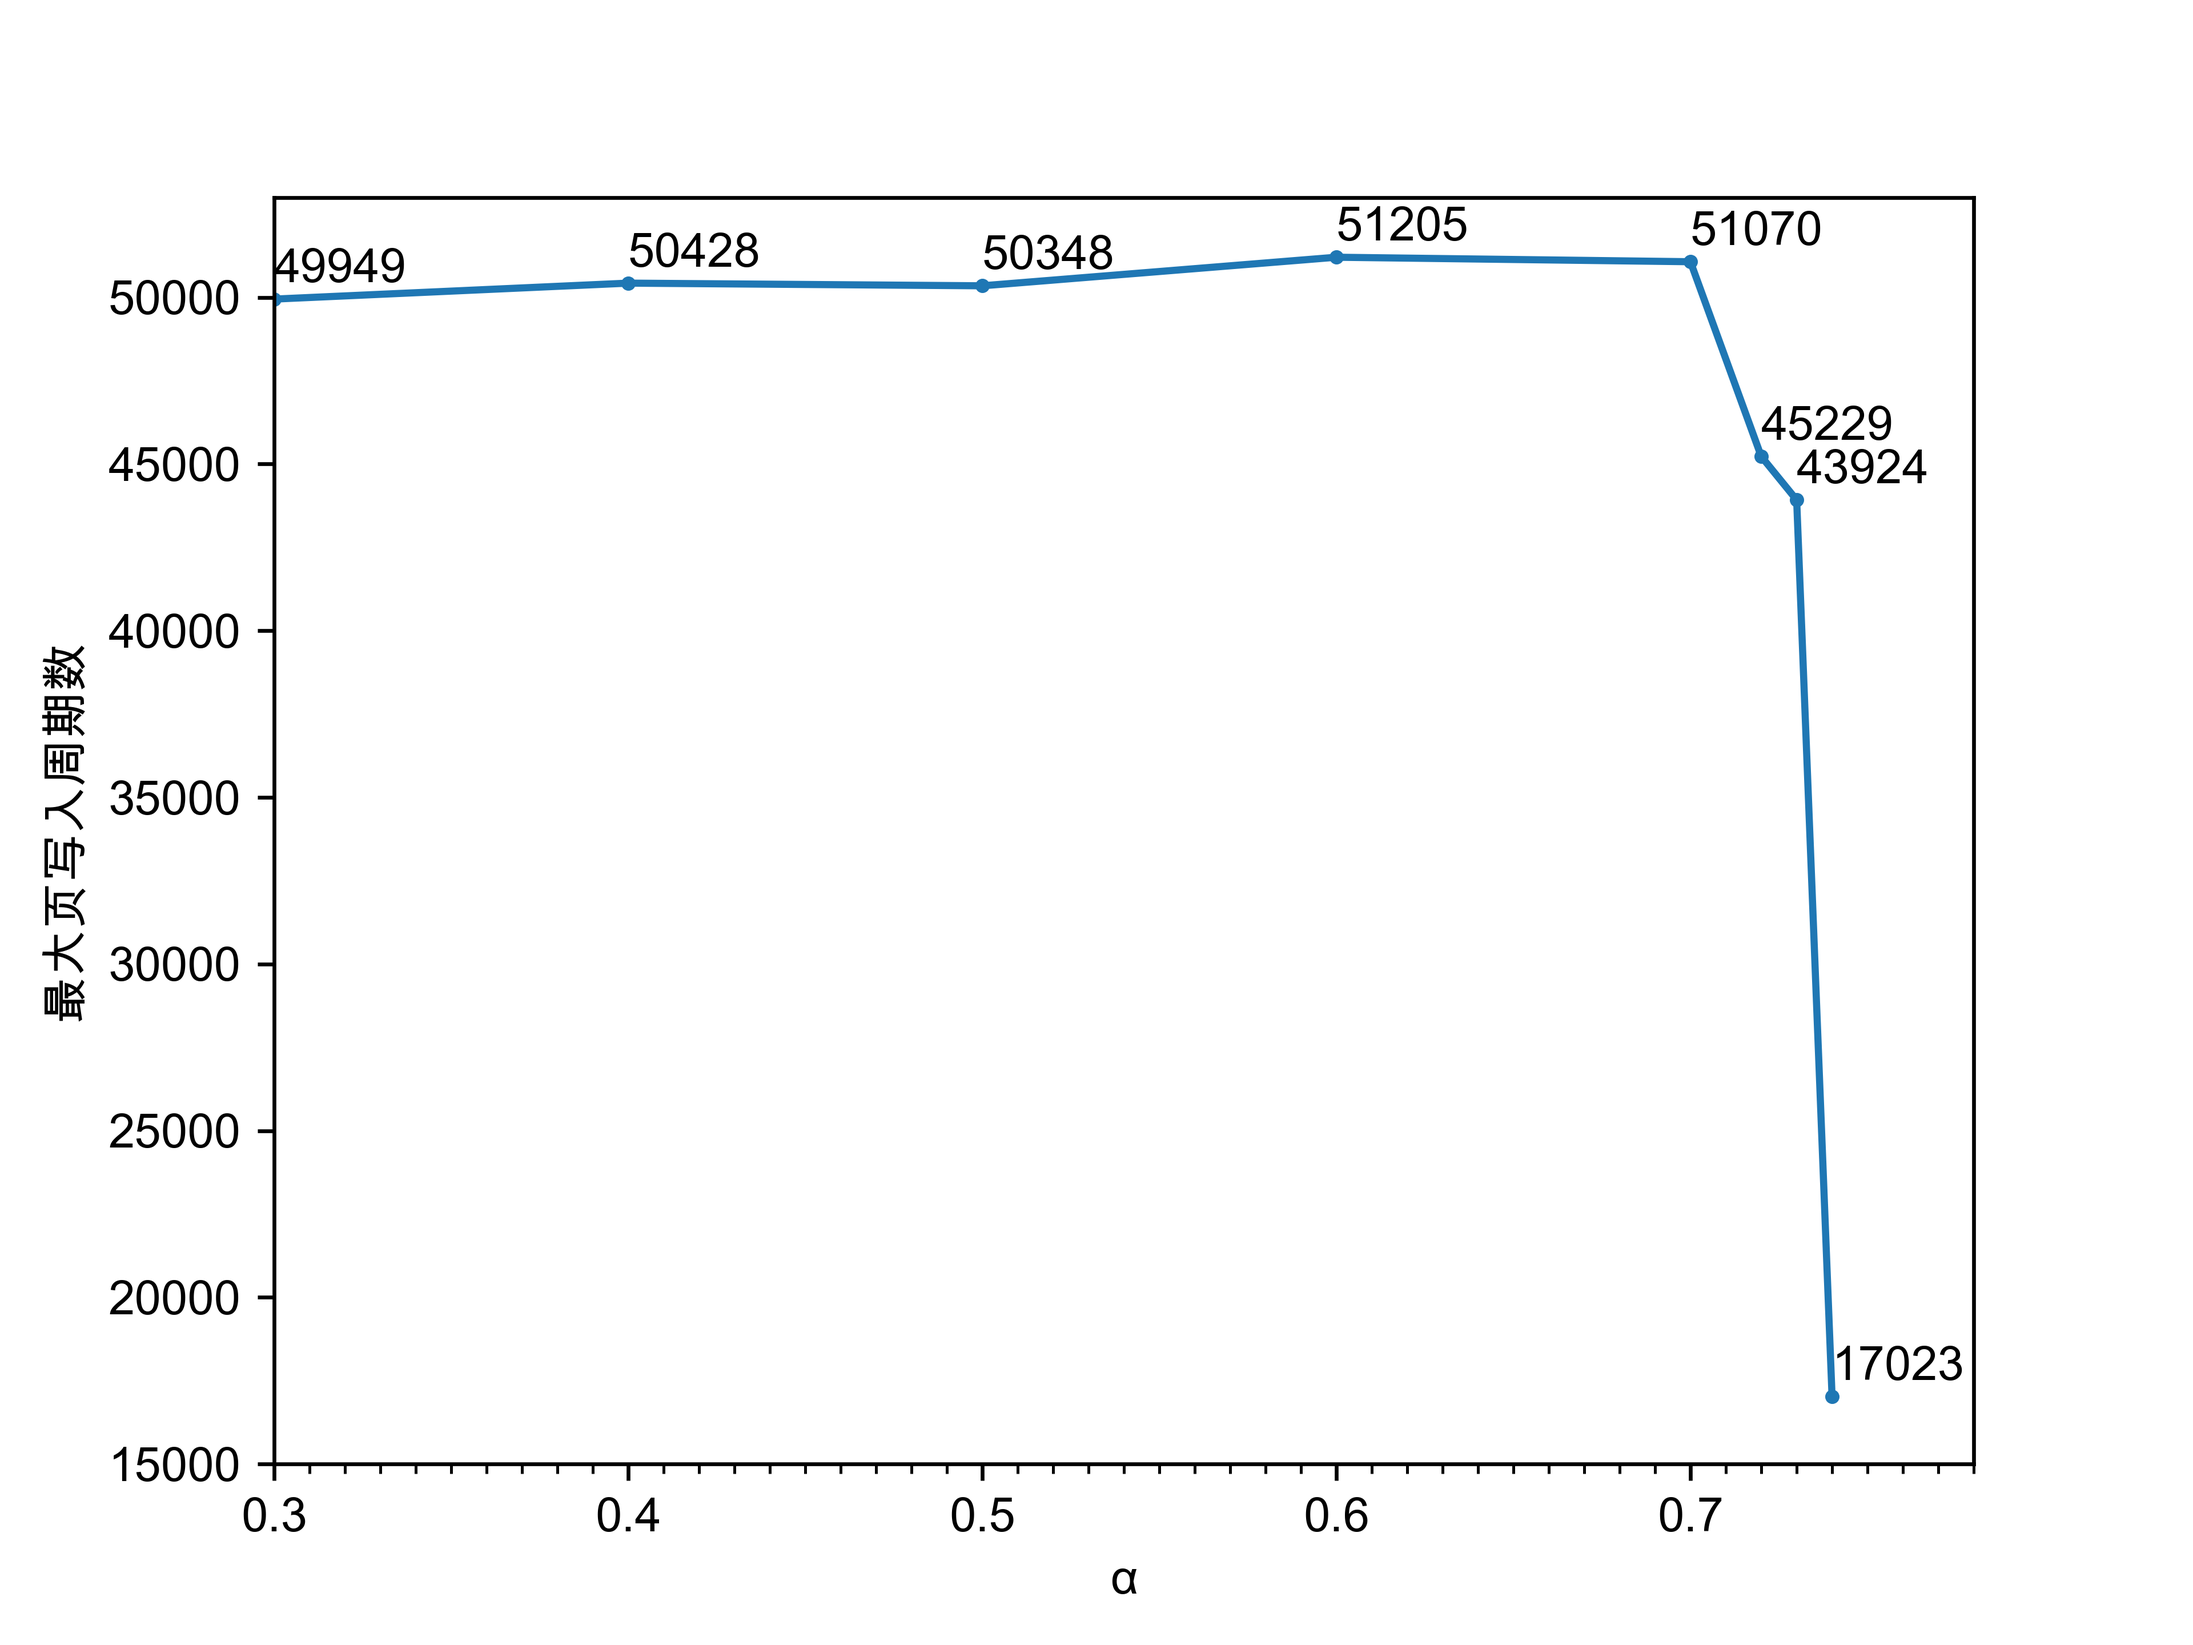
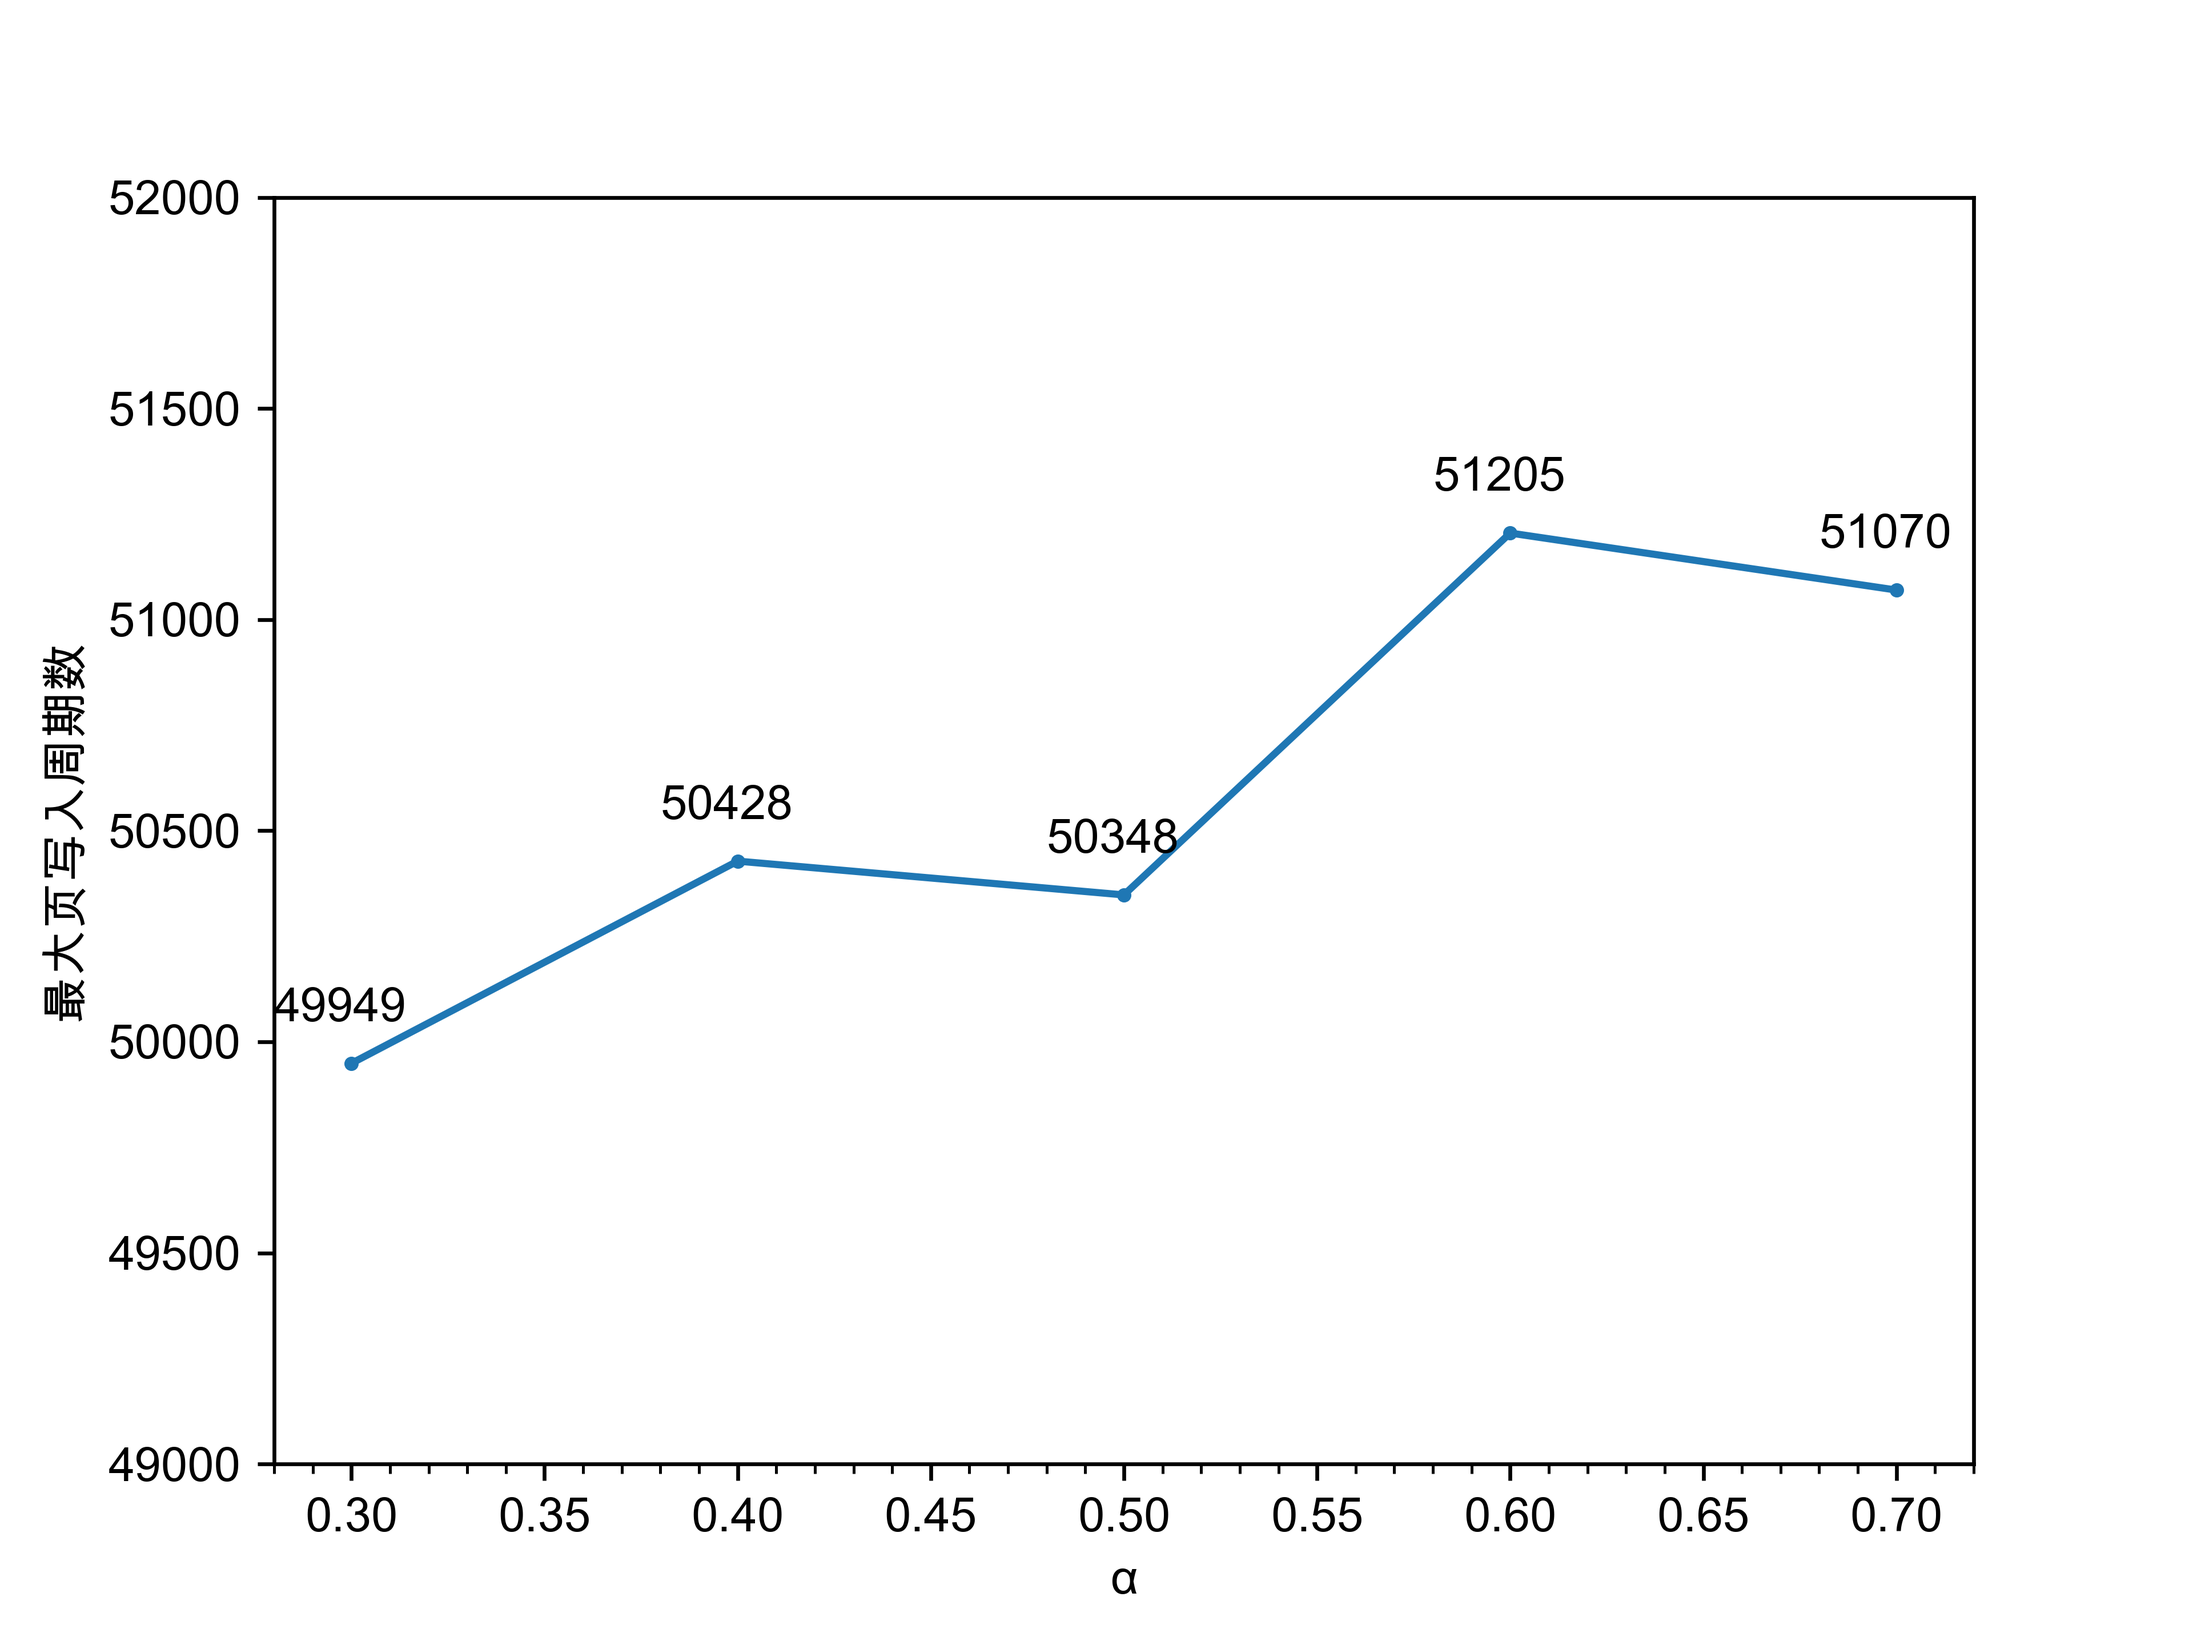
a=0.73可以 0.74不行

diff --git a/matplot/makefigure.py b/matplot/makefigure.py
@@ -225,12 +225,12 @@ def drawPlotByStandardDeviation2(cycleData0, StandardDeviationData0, cycleData1,
                   '-', label='α = 0.60', markersize=marksize)
     l3 = plt.plot(cycleData4, StandardDeviationData4,
                   '-', label='α = 0.70', markersize=marksize)
-    l3 = plt.plot(cycleData5, StandardDeviationData5,
-                  '-', label='α = 0.72', markersize=marksize)
-    l3 = plt.plot(cycleData6, StandardDeviationData6,
-                  '-', label='α = 0.73', markersize=marksize)
-    l3 = plt.plot(cycleData7, StandardDeviationData7,
-                  '-', label='α = 0.74', markersize=marksize)
+#     l3 = plt.plot(cycleData5, StandardDeviationData5,
+#                   '-', label='α = 0.72', markersize=marksize)
+#     l3 = plt.plot(cycleData6, StandardDeviationData6,
+#                   '-', label='α = 0.73', markersize=marksize)
+#     l3 = plt.plot(cycleData7, StandardDeviationData7,
+#                   '-', label='α = 0.74', markersize=marksize)
     plt.xlabel('页写入操作请求数')
     plt.ylabel('标准差')
     plt.legend()
@@ -320,12 +320,12 @@ def drawPlotByTH(cycleData0, th0, cycleData1, th1, cycleData2, th2,
              '-', label='α = 0.60', markersize=marksize)
     plt.plot(cycleData4, th4,
              '-', label='α = 0.70', markersize=marksize)
-    plt.plot(cycleData5, th5,
-             '-', label='α = 0.72', markersize=marksize)
-    plt.plot(cycleData6, th6,
-             '-', label='α = 0.73', markersize=marksize)
-    plt.plot(cycleData7, th7,
-             '-', label='α = 0.74', markersize=marksize)
+#     plt.plot(cycleData5, th5,
+#              '-', label='α = 0.72', markersize=marksize)
+#     plt.plot(cycleData6, th6,
+#              '-', label='α = 0.73', markersize=marksize)
+#     plt.plot(cycleData7, th7,
+#              '-', label='α = 0.74', markersize=marksize)
 #     plt.plot(cycleData, StandardDeviationData0, 'ro-',
 #              cycleData, StandardDeviationData1, 'g+-',
 #              cycleData, StandardDeviationData2, 'b^-'
@@ -333,7 +333,7 @@ def drawPlotByTH(cycleData0, th0, cycleData1, th1, cycleData2, th2,
     plt.xlabel('页写入操作请求数')
     plt.ylabel('阈值TH')
     plt.legend()
-    plt.axis([0, 51000, 0, 500])
+    plt.axis([0, 52000, 0, 500])
 
     if len(saveName) != 0:
         plt.savefig(saveName)
@@ -490,33 +490,17 @@ def MaxCycleBtwDPAndPDP(cycles):
 
 def MaxCycleBtwPDPTH(cycles):
 
-    x = [0.30, 0.40, 0.50, 0.60, 0.70, 0.72,
-         0.73, 0.74]
+    x = [0.30, 0.40, 0.50, 0.60, 0.70]
     plt.figure(1, dpi=600)
     plt.rcParams['font.sans-serif'] = ['Arial Unicode MS']
     ax = plt.subplot(1, 1, 1)
     rects0 = plt.plot(x, cycles, 'o-', markersize=2.0)
-#     rects1 = plt.plot(0.40, cycles[1], label='α = 0.40', width=1)
-#     rects2 = plt.plot(0.50, cycles[2], label='α = 0.50', width=1)
-#     rects3 = plt.plot(0.60, cycles[3], label='α = 0.60', width=1)
-#     rects4 = plt.plot(0.70, cycles[4], label='α = 0.70', width=1)
-#     rects5 = plt.plot(0.72, cycles[5], label='α = 0.72', width=1)
-#     rects6 = plt.plot(0.73, cycles[6], label='α = 0.73', width=1)
-#     rects7 = plt.plot(0.74, cycles[7], label='α = 0.74', width=1)
-#     autolabel(rects0, ax)
-#     autolabel(rects1, ax)
-#     autolabel(rects2, ax)
-#     autolabel(rects3, ax)
-#     autolabel(rects4, ax)
-#     autolabel(rects5, ax)
-#     autolabel(rects6, ax)
-#     autolabel(rects7, ax)
-    plt.ylim(15000, 53000)
-    plt.xlim(0.3, 0.78)
+    plt.ylim(49000, 52000)
+#     plt.xlim(0.3, 0.78)
     ax.xaxis.set_minor_locator(MultipleLocator(0.01))
     plt.xlabel('α')
-    for i in range(8):
-        plt.text(x[i], cycles[i]+500, cycles[i])
+    for i in range(5):
+        plt.text(x[i]-0.02, cycles[i]+100, cycles[i])
     ax.set_ylabel('最大页写入周期数')
 #     ax.set_xlabel('物理页号')
 #     plt.title('无磨损均衡介入')

diff --git a/dualpool.cc b/dualpool.cc
@@ -174,7 +174,9 @@ unsigned int DualPool::PopFrontHotPoolByEraseCycle() {
 	this->hot_ec_head_cache_->PopItem(old_hot_ec_head);
 
 	/* 看看cache里的储备量还够不够，不够的话补充 */
-	GetSonOfOldPage(&old_hot_ec_head, HOTPOOL, true, true);
+	// GetSonOfOldPage(&old_hot_ec_head, HOTPOOL, true, true);
+	if (this->hot_ec_head_cache_->IsEmpty())
+		FreshPool(HOTPOOL);
 
 	return old_hot_ec_head.physical_page_num;
 }
@@ -187,7 +189,9 @@ unsigned int DualPool::PopBackHotPoolByEraseCycle() {
 	this->hot_ec_tail_cache_->PopItem(old_hot_ec_tail);
 
 	/* 看看cache里的储备量还够不够，不够的话补充 */
-	GetSonOfOldPage(&old_hot_ec_tail, HOTPOOL, false, true);
+	// GetSonOfOldPage(&old_hot_ec_tail, HOTPOOL, false, true);
+	if (this->hot_ec_tail_cache_->IsEmpty())
+		FreshPool(HOTPOOL);
 
 	return old_hot_ec_tail.physical_page_num;
 }
@@ -200,7 +204,9 @@ unsigned int DualPool::PopBackColdPoolByEraseCycle() {
 	this->cold_ec_tail_cache_->PopItem(old_cold_ec_tail);
 
 	/* 看看cache里的储备量还够不够，不够的话补充 */
-	GetSonOfOldPage(&old_cold_ec_tail, COLDPOOL, false, true);
+	// GetSonOfOldPage(&old_cold_ec_tail, COLDPOOL, false, true);
+	if (this->cold_ec_tail_cache_->IsEmpty())
+		FreshPool(COLDPOOL);
 
 	return old_cold_ec_tail.physical_page_num;
 }
@@ -212,7 +218,9 @@ unsigned int DualPool::PopFrontColdPoolByEffectiveEraseCycle() {
 	this->cold_eec_head_cache_->PopItem(old_cold_eec_head);
 
 	/* 看看cache里的储备量还够不够，不够的话补充 */
-	GetSonOfOldPage(&old_cold_eec_head, COLDPOOL, true, false);
+	// GetSonOfOldPage(&old_cold_eec_head, COLDPOOL, true, false);
+	if (this->cold_eec_head_cache_->IsEmpty())
+		FreshPool(COLDPOOL);
 
 	return old_cold_eec_head.physical_page_num;
 }
@@ -321,6 +329,7 @@ bool DualPool::TryToUpdateHotECHead(PageCycle* page_to_update) {
 	    || page_to_update->cycle <= this->hot_ec_head_cache_->GetBottom().cycle)
 		return false;
 
+	this->hot_ec_head_cache_->PopItem(*page_to_update);
 	this->hot_ec_head_cache_->TryToPushItem(*page_to_update);
 	return true;
 }
@@ -330,6 +339,7 @@ bool DualPool::TryToUpdateColdEECHead(PageCycle* page_to_update) {
 	    || page_to_update->cycle <= this->cold_eec_head_cache_->GetBottom().cycle)
 		return false;
 
+	this->cold_eec_head_cache_->PopItem(*page_to_update);
 	this->cold_eec_head_cache_->TryToPushItem(*page_to_update);
 	return true;
 }

diff --git a/etl.cc b/etl.cc
@@ -459,19 +459,19 @@ void ETL::TryToExecDualPoolAlgorithm() {
 	bool dirty_swap_triggered = false, coldpool_resize_triggered = false,
 	     hotpool_resize_triggered = false;
 
-	if (this->dualpool_->IsDirtySwapTriggered()) {
+	while (this->dualpool_->IsDirtySwapTriggered()) {
 		LOG_DEBUG("dirty swap triggered \r\n");
 		this->DirtySwap();
 		dirty_swap_triggered = true;
 	}
 
-	if (this->dualpool_->IsColdPoolResizeTriggered()) {
+	while (this->dualpool_->IsColdPoolResizeTriggered()) {
 		LOG_DEBUG("cold pool resize triggered \r\n");
 		this->ColdPoolResize();
 		coldpool_resize_triggered = true;
 	}
 
-	if (this->dualpool_->IsHotPoolResizeTriggered()) {
+	while (this->dualpool_->IsHotPoolResizeTriggered()) {
 		LOG_INFO("hot pool resize triggered \r\n");
 		this->HotPoolResize();
 		hotpool_resize_triggered = true;
@@ -521,7 +521,7 @@ void ETL::UpdateThreshhold() {
 		this->performance_statistics_.total_write_cycles / this->info_page_.total_page_count;
 
 	// int th = this->page_indurance_ - ((avrg_page_write_cycles + this->page_indurance_) * 0.5);
-	int th = this->page_indurance_ - ((1 - 0.74) * this->page_indurance_ + avrg_page_write_cycles * 0.74);
+	int th = this->page_indurance_ - ((1 - 0.5) * this->page_indurance_ + avrg_page_write_cycles * 0.5);
 	this->dualpool_->SetThreshhold(th);
 }
 

diff --git a/matplot/main.py b/matplot/main.py
@@ -96,13 +96,13 @@ def main():
     #         data.a73_cycle, data.a73_standard_deviation, data.a74_cycle, data.a74_standard_deviation, "PDPDiffTHStandarddeviation")
 
     #     mf.MaxCycleBtwPDPTH([49949, 50428, 50348, 51205,
-    #                          51070, 45229, 43924, 17023])
+    #                          51070])
 
-    mf.drawPlotByTH(
-        data.a3_cycle, data.a3_th, data.a4_cycle, data.a4_th,
-        data.a5_cycle, data.a5_th, data.a6_cycle, data.a6_th,
-        data.a7_cycle, data.a7_th,  data.a72_cycle, data.a72_th,
-        data.a73_cycle, data.a73_th, data.a74_cycle, data.a74_th, "PDPDiffTH")
+    #     mf.drawPlotByTH(
+    #         data.a3_cycle, data.a3_th, data.a4_cycle, data.a4_th,
+    #         data.a5_cycle, data.a5_th, data.a6_cycle, data.a6_th,
+    #         data.a7_cycle, data.a7_th,  data.a72_cycle, data.a72_th,
+    #         data.a73_cycle, data.a73_th, data.a74_cycle, data.a74_th, "PDPDiffTH")
 
 
 if __name__ == "__main__":
